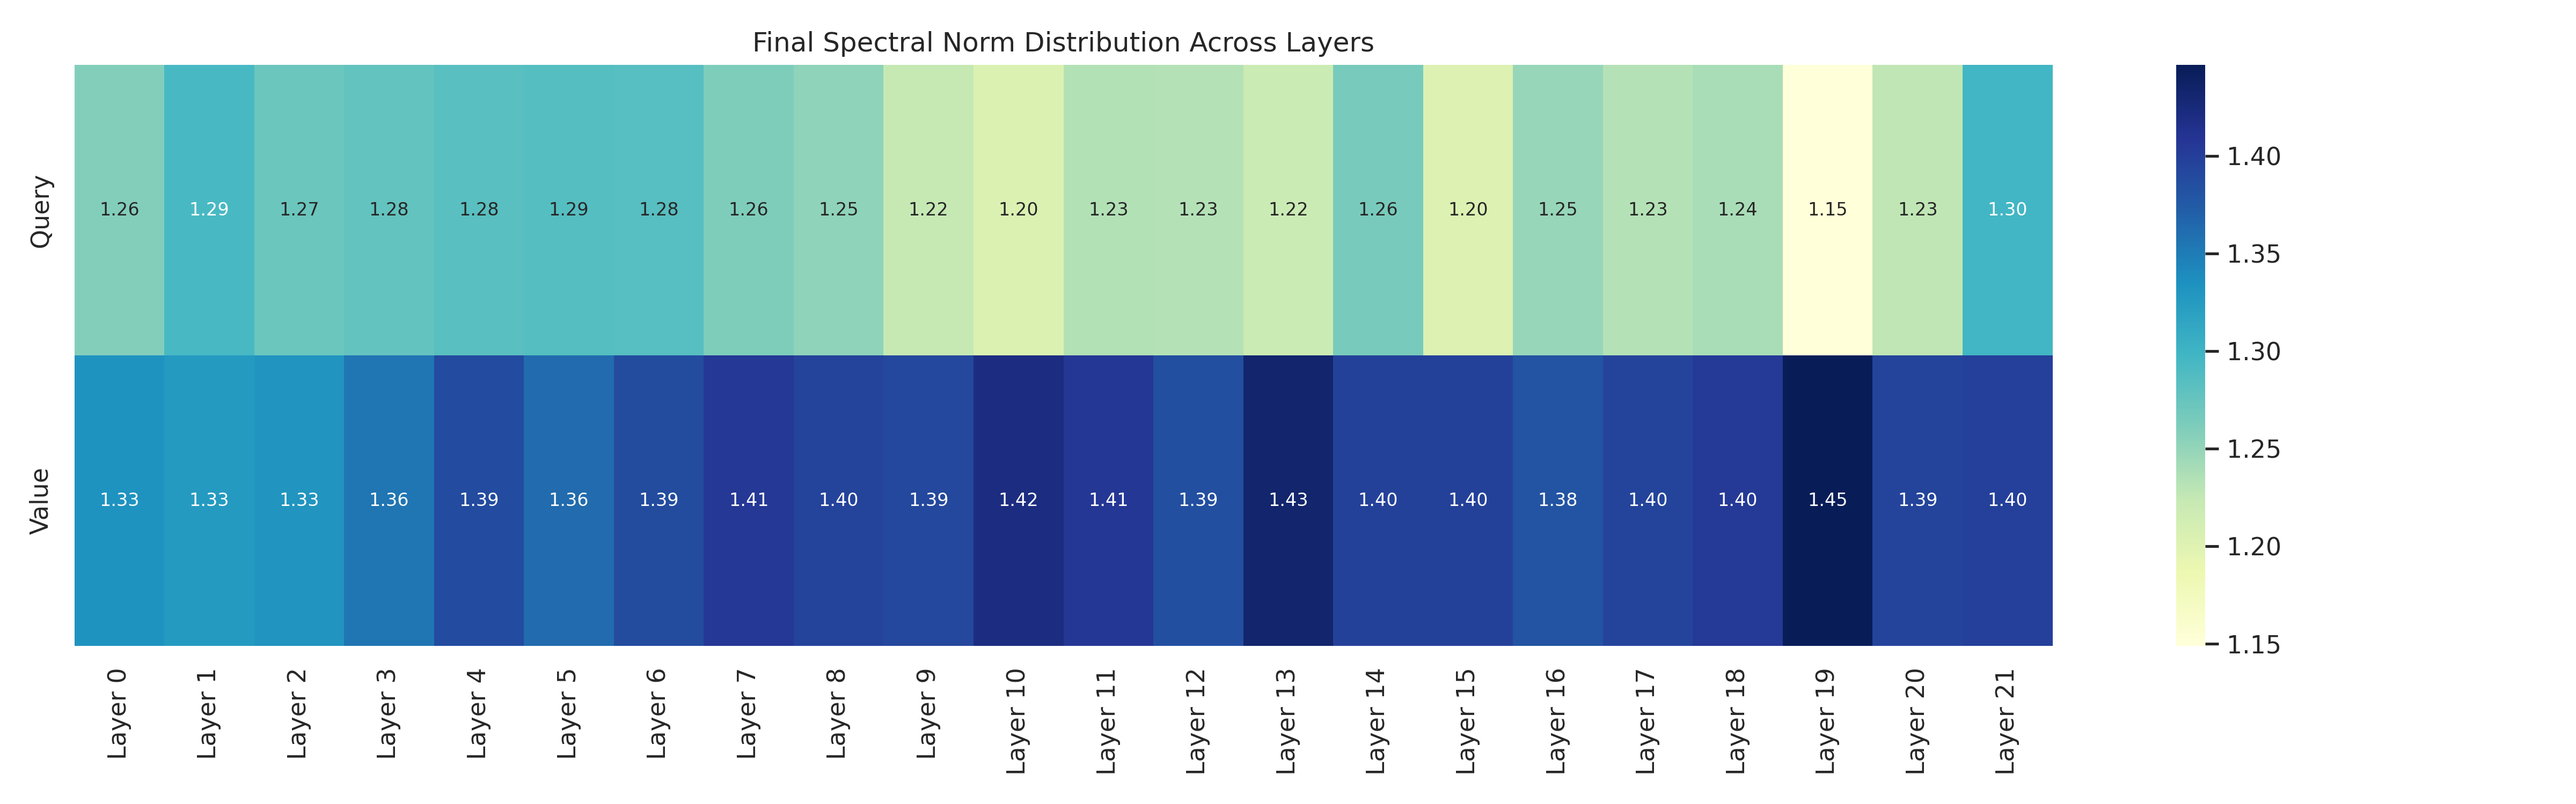
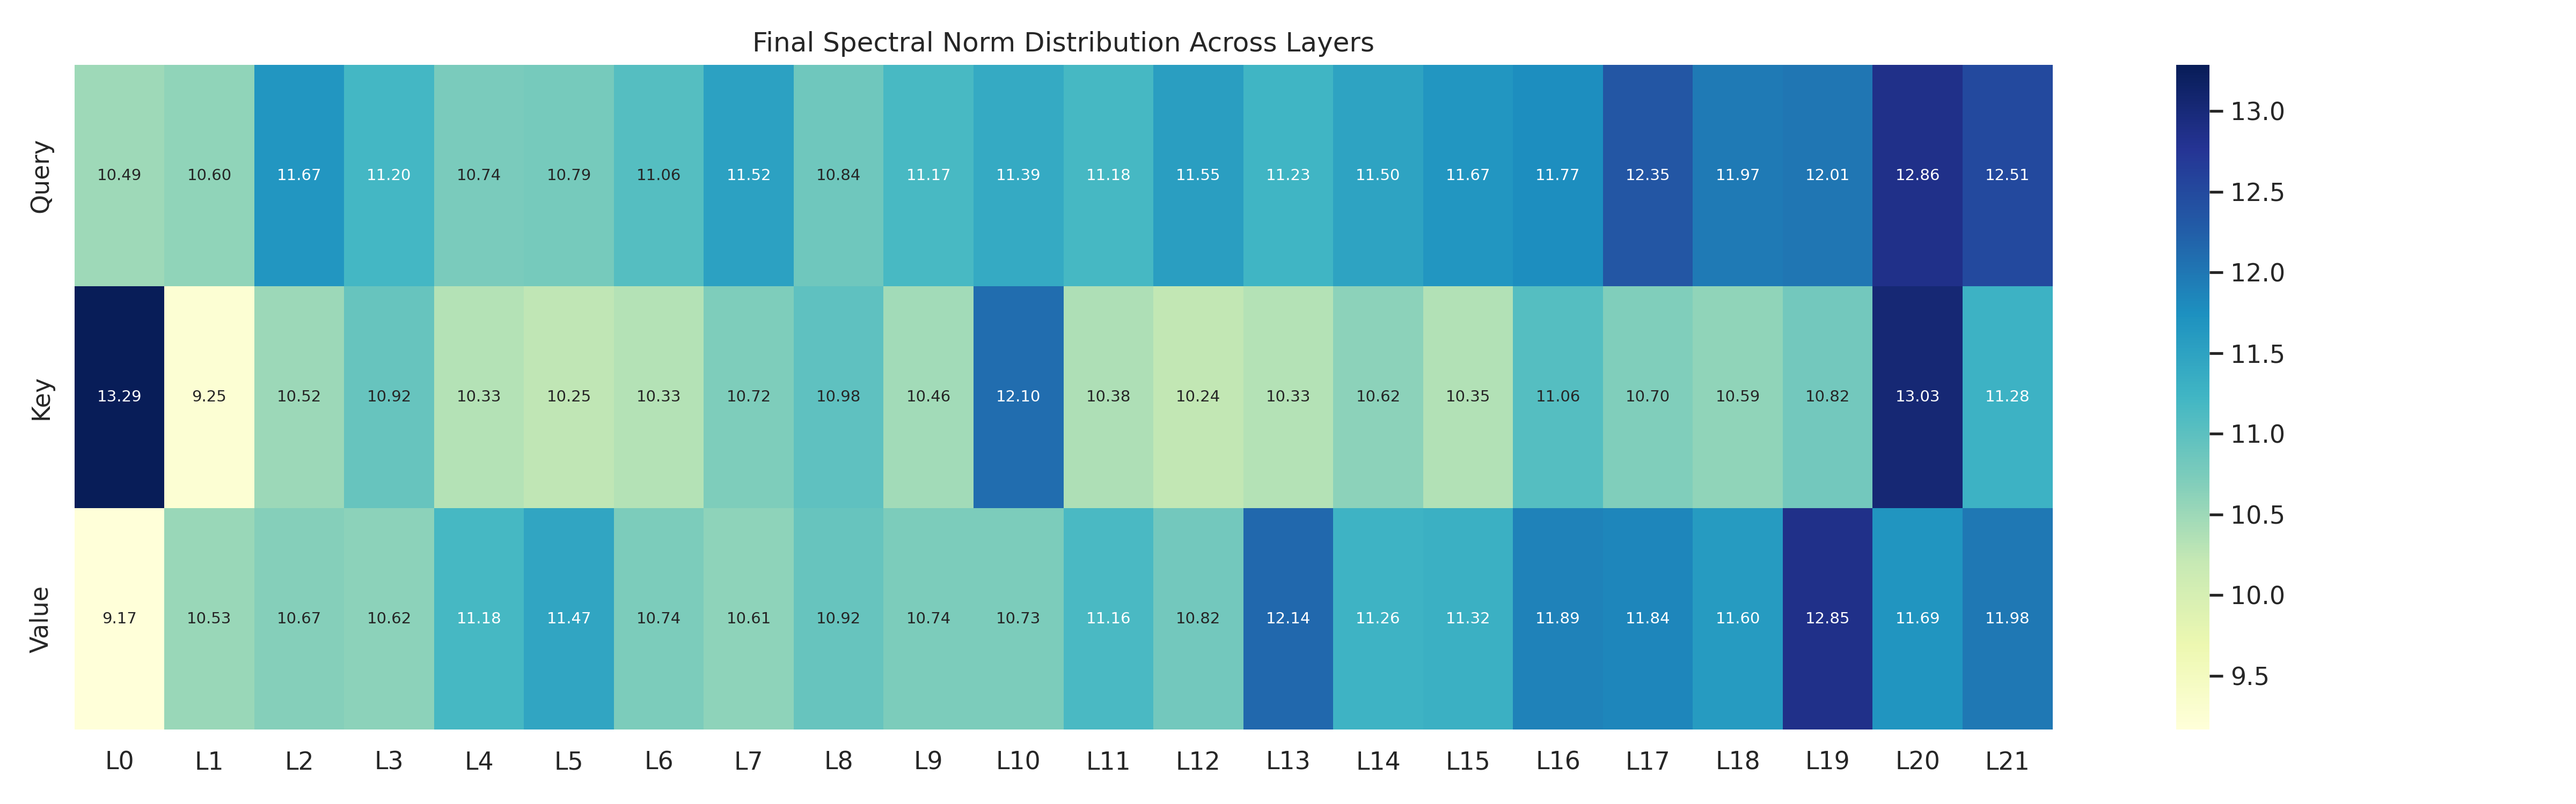
Update research report with 20M token results and new spectral plots

diff --git a/training/trainer.py b/training/trainer.py
@@ -86,6 +86,9 @@ def train_model(
     extra_config: Optional[Dict[str, Any]] = None,
     log_every: int = 100,
     track_manifold: bool = False,
+    checkpoint_dir: Optional[str] = "checkpoints",
+    checkpoint_every: int = 500,
+    resume_from: Optional[str] = None,
 ) -> Any:
     """
     Generic training function that can be used by experiments.
@@ -129,12 +132,28 @@ def train_model(
     if track_manifold:
         metrics_history['manifold_history'] = defaultdict(list)
 
+    # Resume from checkpoint if specified
+    start_step = 0
+    start_tokens = 0
+    if resume_from and os.path.exists(resume_from):
+        print(f"🔄 Resuming from checkpoint: {resume_from}")
+        checkpoint = torch.load(resume_from, map_location=device, weights_only=False)
+        model.load_state_dict(checkpoint['model_state_dict'])
+        for i, opt in enumerate(optimizers):
+            opt.load_state_dict(checkpoint['optimizer_states'][i])
+        for i, sch in enumerate(schedulers):
+            sch.load_state_dict(checkpoint['scheduler_states'][i])
+        metrics_history = checkpoint['metrics_history']
+        start_step = checkpoint['step']
+        start_tokens = checkpoint['tokens_seen']
+        print(f"   Resumed at step {start_step}, tokens {start_tokens:,}")
+
     # Training loop
     model.train()
-    step = 0
-    tokens_seen = 0
+    step = start_step
+    tokens_seen = start_tokens
     desc = "Training"
-    pbar = tqdm(total=config.train_tokens, desc=desc, unit="tokens")
+    pbar = tqdm(total=config.train_tokens, desc=desc, unit="tokens", initial=tokens_seen)
     
     stopped_early = False
 
@@ -246,12 +265,15 @@ def train_model(
                             kv_size = block.attention.kv_size
                             
                             w_q = proj[:q_size]
+                            w_k = proj[q_size : q_size + kv_size]
                             w_v = proj[q_size + kv_size : q_size + 2 * kv_size]
                             
                             q_stats = compute_spectral_stats(w_q)
+                            k_stats = compute_spectral_stats(w_k)
                             v_stats = compute_spectral_stats(w_v)
                             
                             metrics_history['manifold_history'][f'spec_norm_Q_{i}'].append(q_stats['max'])
+                            metrics_history['manifold_history'][f'spec_norm_K_{i}'].append(k_stats['max'])
                             metrics_history['manifold_history'][f'spec_norm_V_{i}'].append(v_stats['max'])
                             
                             # Track detailed stats for first and last layers
@@ -302,6 +324,23 @@ def train_model(
                         current_loss_val = ce_loss.item()
                         stopped_early = True
                         break
+
+            # Save periodic checkpoint
+            if checkpoint_dir and step > 0 and step % checkpoint_every == 0:
+                ckpt_dir = Path(checkpoint_dir)
+                ckpt_dir.mkdir(parents=True, exist_ok=True)
+                ckpt_path = ckpt_dir / "latest_checkpoint.pt"
+                
+                # We save a minimal set needed for resuming
+                torch.save({
+                    'step': step,
+                    'tokens_seen': tokens_seen,
+                    'model_state_dict': model.state_dict(),
+                    'optimizer_states': [opt.state_dict() for opt in optimizers],
+                    'scheduler_states': [sch.state_dict() for sch in schedulers] if schedulers else [],
+                    'metrics_history': metrics_history,
+                }, ckpt_path)
+                # print(f"   💾 Checkpoint saved at step {step}")
 
             step += 1
         
@@ -469,6 +508,8 @@ def train_minimal_llm(
     load_weights_path: Optional[str] = None,
     compare_baseline: bool = False,
     track_manifold: bool = False,
+    resume: bool = False,
+    checkpoint_dir: str = "checkpoints",
 ):
     print(f"\n🚀 Training dense model")
     setup_start = time.time()
@@ -595,6 +636,8 @@ def train_minimal_llm(
         extra_config=None,
         log_every=getattr(config, 'log_every', 100),
         track_manifold=track_manifold,
+        resume_from=os.path.join(checkpoint_dir, "latest_checkpoint.pt") if resume else None,
+        checkpoint_dir=checkpoint_dir
     )
     
     total_training_time = results['training_time']

diff --git a/train_llm.py b/train_llm.py
@@ -202,7 +202,7 @@ def main():
     parser = argparse.ArgumentParser(description="Train MoE Model")
     parser.add_argument("--muon_lr", type=float, help="Override Muon learning rate")
     parser.add_argument("--adamw_lr", type=float, help="Override AdamW learning rate")
-    parser.add_argument("--train_tokens", type=int, default=8000000, help="Override train_tokens")
+    parser.add_argument("--train_tokens", type=int, default=20000000, help="Override train_tokens")
     parser.add_argument("--output_dir", type=str, default="./checkpoints", help="Output directory")
     parser.add_argument("--config_class", type=str, help="Python path to config class (e.g., configs.llm_config.BlueberryConfig)")
     parser.add_argument("--load_checkpoint", type=str, help="Path to checkpoint file to load weights from")
@@ -215,6 +215,8 @@ def main():
     parser.add_argument("--log_every", type=int, default=100, help="Logging frequency in steps")
     parser.add_argument("--warmup", type=str, default="true", help="Whether to perform untimed compilation warmup (true/false)")
     parser.add_argument("--track_manifold", type=str, default="false", help="Whether to track manifold spectral statistics (true/false)")
+    parser.add_argument("--resume", action="store_true", help="Resume training from latest_checkpoint.pt in the output directory")
+    parser.add_argument("--checkpoint_dir", type=str, default="./checkpoints", help="Directory to save periodic checkpoints")
 
     args = parser.parse_args()
 
@@ -358,7 +360,9 @@ def main():
         val_loader, 
         output_dir=output_dir, 
         load_weights_path=args.load_checkpoint,
-        track_manifold=(args.track_manifold.lower() == "true")
+        track_manifold=(args.track_manifold.lower() == "true"),
+        resume=args.resume,
+        checkpoint_dir=args.checkpoint_dir
     )
 
 

diff --git a/research_muon/track_manifold.py b/research_muon/track_manifold.py
@@ -85,7 +85,7 @@ def plot_results(history, save_dir):
             plt.plot(data[::step_size], label=l, color=c, linewidth=2, marker='o' if len(data) < 20 else None)
             
     plt.title('Hierarchical Stretching: Max Spectral Norm Evolution')
-    plt.xlabel('Optimizer Steps (downsampled)')
+    plt.xlabel('Optimizer Steps')
     plt.ylabel('Spectral / Operator Norm')
     plt.legend(frameon=True)
     plt.grid(True, alpha=0.3)
@@ -117,19 +117,21 @@ def plot_results(history, save_dir):
     
     # Collect all 'spec_norm_Q_i' available in the last history entry
     q_norms = []
+    k_norms = []
     v_norms = []
     k_layers = sorted([int(k.split('_')[-1]) for k in history.keys() if k.startswith('spec_norm_Q_') and k.split('_')[-1].isdigit()])
     
     for i in k_layers:
         q_norms.append(history[f'spec_norm_Q_{i}'][-1])
+        k_norms.append(history.get(f'spec_norm_K_{i}', [0])[-1]) # Fallback for old logs
         v_norms.append(history[f'spec_norm_V_{i}'][-1])
-        layer_names.append(f"Layer {i}")
+        layer_names.append(f"L{i}") # Shorter names for better fit
         
     if q_norms and v_norms:
-        heatmap_data = np.array([q_norms, v_norms])
+        heatmap_data = np.array([q_norms, k_norms, v_norms])
         sns.heatmap(heatmap_data, annot=True, fmt=".2f", cmap="YlGnBu", 
-                    xticklabels=layer_names, yticklabels=['Query', 'Value'],
-                    annot_kws={"size": 8})
+                    xticklabels=layer_names, yticklabels=['Query', 'Key', 'Value'],
+                    annot_kws={"size": 7})
         plt.title('Final Spectral Norm Distribution Across Layers')
         plt.tight_layout()
         plt.savefig(os.path.join(save_dir, 'norm_heatmap.png'), dpi=300)

diff --git a/research_muon/hierarchical_stretching.md b/research_muon/hierarchical_stretching.md
@@ -8,6 +8,7 @@ We hypothesized that while Muon enforces orthogonal constraints on parameter mat
 
 ## 📊 Experimental Setup
 - **Model**: Blueberry-Nano (88M Params, 22 layers, 512 d_model)
+- **Data**: 20 Million tokens (SmolLM-style dataset mix)
 - **Optimizer**: Muon (orthogonalized 2D updates for 2D params)
 - **Tracking**: Per-step extraction of:
     - **Max Spectral Norm ($\sigma_{max}$)**: Maximum singular value.
@@ -35,9 +36,9 @@ Unlike standard optimizers which can lead to uncontrolled spectral growth, Muon 
 ![Norm Heatmap](../results/research_plots/norm_heatmap.png)
 *Insight: The heatmap reveals a smooth gradient of spectral stretching. As we move from Layer 0 to Layer 21, the "spectral temperature" rises, confirming that hierarchical depth corresponds to increased spectral focus.*
 
-#### C. Singular Spectrum
+#### C. Feature Concentration (Singular Spectrum)
 ![Singular Spectrum](../results/research_plots/singular_spectrum.png)
-*Insight: By comparing the top singular values, we see that deeper layers have a steeper decay compared to the foundation. This confirms that Muon allows deeper layers to "collapse" onto more meaningful, singular directions.*
+*Insight: By comparing the top singular values, we see that deeper layers concentrate more of their learnable capacity into fewer, more dominant features. This is evidenced by a steeper decay in the spectrum compared to the foundation layers, which remain more expressive across all dimensions.*
 
 #### D. Spectral Gap
 ![Spectral Gap](../results/research_plots/spectral_gap.png)
